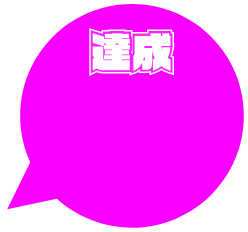
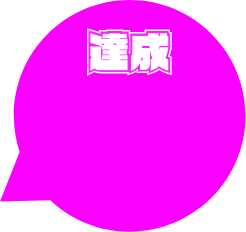
add: comments and drop shadow

diff --git a/src/style.css b/src/style.css
@@ -6,6 +6,7 @@
   --purple: #360a73;
   --light-purple: #d3d1ff;
   --pink: #e345e6;
+  --luminous-pink: #fa00ff;
   --gradient: linear-gradient(
     108deg,
     rgba(235, 87, 237, 1) 0%,
@@ -448,25 +449,16 @@ router-link {
   padding-right: 1.2em !important;
 }
 
-/* アイコン */
+/* 右下の固定アイコン */
+
+/* エリア */
 .fixed-icons {
   box-sizing: border-box;
   position: fixed;
   right: 1em;
   bottom: 1.4em;
 }
-
-.fixed-icon-img {
-  width: 2em;
-  height: auto;
-  transition: 0.2s;
-}
-.menu-round.toggle .fixed-icon-img {
-  width: 4.5em;
-  height: auto;
-  transition-delay: 0.4s;
-}
-
+/* ＋トグルボタン背景 */
 .menu-toggle {
   width: 3.5em;
   height: 3.5em;
@@ -474,7 +466,7 @@ router-link {
   bottom: 0;
   right: 0;
   border-radius: 50%;
-  background-color: #fa00ff;
+  background-color: var(--luminous-pink);
   box-shadow: 0px 1px 2px 1px rgba(0, 0, 0, 0.2);
   z-index: 100;
   display: flex;
@@ -482,10 +474,12 @@ router-link {
   align-items: center;
   transition: 0.1s;
 }
+/* +トグルボタン背景 ON状態 */
 .menu-toggle.toggle {
   animation-name: menu-toggle-animation;
   animation-duration: 0.5s;
   animation-fill-mode: forwards;
+  filter: drop-shadow(0px 0px 1px var(--luminous-pink));
 }
 @keyframes menu-toggle-animation {
   50% {
@@ -495,7 +489,7 @@ router-link {
   80% {
     width: 3em;
     height: 3em;
-    background-color: #fa00ff;
+    background-color: var(--luminous-pink);
   }
   100% {
     width: 3em;
@@ -503,7 +497,7 @@ router-link {
     background-color: var(--black);
   }
 }
-
+/* +トグルボタン+ */
 .menu-toggle .plus {
   font-size: 2em;
   color: white;
@@ -511,7 +505,7 @@ router-link {
   z-index: 101;
   transition: 0.1s;
 }
-
+/* +トグルボタン+ ON状態 */
 .menu-toggle .plus.toggle {
   animation-name: plus-animation;
   animation-duration: 0.2s;
@@ -521,41 +515,50 @@ router-link {
 }
 @keyframes plus-animation {
   100% {
-    color: #fa00ff;
+    color: var(--luminous-pink);
     transform: rotate(135deg);
   }
 }
-
-.menu-icon {
-  position: absolute;
-}
-
+/* 扇状に展開するエリア */
 .menu-round {
   position: absolute;
   bottom: 0;
   right: 0;
   z-index: 99;
 }
-
+/* +ボタンに隠れている時のアイコン */
 .menu-round .menu-icon {
+  position: absolute;
   right: 0.25em;
   bottom: 0.25em;
   transition: 0.1s;
 }
-
+/* 展開時のアイコン */
 .menu-round.toggle .menu-icon:nth-of-type(1) {
   right: 0.2em;
   bottom: 8em;
-  transition-delay: 0.44s;
+  transition-delay: 0.46s;
 }
 .menu-round.toggle .menu-icon:nth-of-type(2) {
   right: 5.8em;
   bottom: 5.8em;
-  transition-delay: 0.42s;
+  transition-delay: 0.44s;
 }
-
 .menu-round.toggle .menu-icon:nth-of-type(3) {
   right: 8.8em;
   bottom: 0em;
   transition-delay: 0.4s;
+}
+/* +トグルボタンに隠れている時のアイコン画像 */
+.menu-icon-img {
+  width: 2em;
+  height: auto;
+  transition: 0.2s;
+}
+/* +トグルボタンから出ている時のアイコン画像 */
+.menu-round.toggle .menu-icon-img {
+  width: 4.5em;
+  height: auto;
+  transition-delay: 0.4s;
+  filter: drop-shadow(0px 0px 2px var(--light-purple));
 }

diff --git a/src/components/parts/SpeechBubble.vue b/src/components/parts/SpeechBubble.vue
@@ -5,13 +5,13 @@
       <div class="status-of-achievement vdl-logo">
         <p
           style="
-            font-size: 1.02rem;
+            font-size: 1.1rem;
             color: var(--white);
             transform: translate(-50%, -50%);
             white-space: nowrap;
           "
         >
-          0<span style="font-size: 0.5rem">/4</span>
+          0<span style="font-size: 0.6rem">/4</span>
         </p>
       </div>
     </div>
@@ -25,8 +25,10 @@ export default {
 </script>
 
 <style scoped>
+/* 吹き出しエリア */
 .menu-round .balloon {
   opacity: 0;
+  z-index: 1;
 }
 .balloon-contents {
   position: relative;
@@ -36,18 +38,13 @@ export default {
 .balloon-contents img {
   width: 100%;
   height: auto;
+  filter: drop-shadow(0px 0px 1px var(--luminous-pink));
 }
-.status-of-achievement {
-  position: absolute;
-  top: 54%;
-  left: 52%;
-  display: flex;
-}
-
+/* 展開時の吹き出し */
 .menu-round.toggle .balloon {
   position: absolute;
-  top: -1em;
-  right: -1.5em;
+  top: -0.8em;
+  right: -1.7em;
   display: flex;
   justify-content: center;
   animation: balloon-animation 0.5s cubic-bezier(0.12, 0, 0.39, 0) 0.6s 1
@@ -55,7 +52,6 @@ export default {
   line-height: 1rem;
   align-items: center;
 }
-
 @keyframes balloon-animation {
   0% {
     transform: translateY(-30px);
@@ -74,5 +70,12 @@ export default {
   100% {
     opacity: 1;
   }
+}
+/* 達成度合いエリア */
+.status-of-achievement {
+  position: absolute;
+  top: 57%;
+  left: 52%;
+  display: flex;
 }
 </style>

diff --git a/src/components/parts/MyNoteIcon.vue b/src/components/parts/MyNoteIcon.vue
@@ -1,6 +1,6 @@
 <template>
   <router-link to="/my-note" :class="className">
-    <img src="/src/assets/mynote-3d-icon.png" class="fixed-icon-img" />
+    <img src="/src/assets/mynote-3d-icon.png" class="menu-icon-img" />
   </router-link>
 </template>
 <!-- <transition :name="doneMyNoteTutorial ? 'fade' : ''">

diff --git a/src/components/parts/HowToIcon.vue b/src/components/parts/HowToIcon.vue
@@ -1,6 +1,6 @@
 <template>
   <a :class="className">
-    <img src="/src/assets/howto-3d-icon.png" class="fixed-icon-img" />
+    <img src="/src/assets/howto-3d-icon.png" class="menu-icon-img" />
   </a>
 </template>
 <script>

diff --git a/src/components/parts/MissionImage.vue b/src/components/parts/MissionImage.vue
@@ -1,5 +1,5 @@
 <template>
-  <img src="../../assets/mission-3d-icon.png" class="fixed-icon-img" />
+  <img src="../../assets/mission-3d-icon.png" class="menu-icon-img" />
 </template>
 
 <script>
